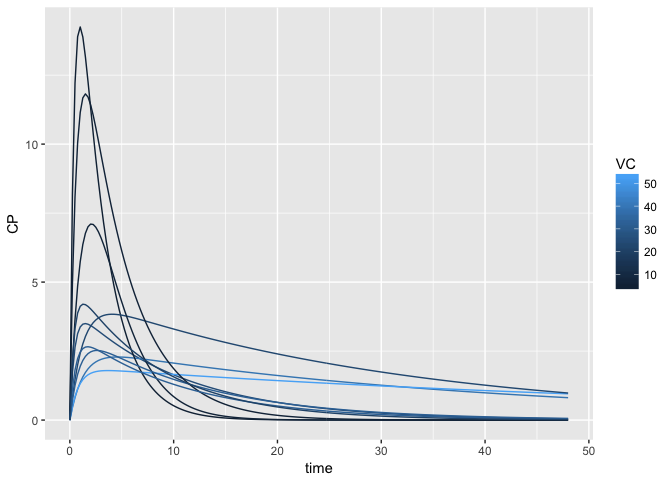
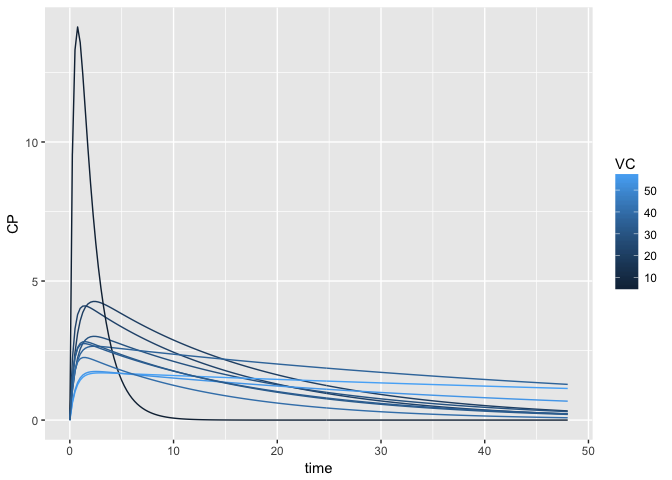
change sense_spaced to sense_range; documentation issues

diff --git a/README.md b/README.md
@@ -47,16 +47,16 @@ out
     . # A tibble: 1,930 x 8
     .       ID  time    CP    CL    VC   KA1 name         value
     .    <dbl> <dbl> <dbl> <dbl> <dbl> <dbl> <chr>        <dbl>
-    .  1  1.00 0      0     2.33  24.9  2.26 multivariate  1.00
-    .  2  1.00 0.250  1.71  2.33  24.9  2.26 multivariate  1.00
-    .  3  1.00 0.500  2.64  2.33  24.9  2.26 multivariate  1.00
-    .  4  1.00 0.750  3.13  2.33  24.9  2.26 multivariate  1.00
-    .  5  1.00 1.00   3.38  2.33  24.9  2.26 multivariate  1.00
-    .  6  1.00 1.25   3.48  2.33  24.9  2.26 multivariate  1.00
-    .  7  1.00 1.50   3.50  2.33  24.9  2.26 multivariate  1.00
-    .  8  1.00 1.75   3.47  2.33  24.9  2.26 multivariate  1.00
-    .  9  1.00 2.00   3.43  2.33  24.9  2.26 multivariate  1.00
-    . 10  1.00 2.25   3.37  2.33  24.9  2.26 multivariate  1.00
+    .  1    1. 0.     0.    1.17  20.5  1.42 multivariate    1.
+    .  2    1. 0.250  1.45  1.17  20.5  1.42 multivariate    1.
+    .  3    1. 0.500  2.44  1.17  20.5  1.42 multivariate    1.
+    .  4    1. 0.750  3.12  1.17  20.5  1.42 multivariate    1.
+    .  5    1. 1.00   3.57  1.17  20.5  1.42 multivariate    1.
+    .  6    1. 1.25   3.87  1.17  20.5  1.42 multivariate    1.
+    .  7    1. 1.50   4.06  1.17  20.5  1.42 multivariate    1.
+    .  8    1. 1.75   4.18  1.17  20.5  1.42 multivariate    1.
+    .  9    1. 2.00   4.24  1.17  20.5  1.42 multivariate    1.
+    . 10    1. 2.25   4.26  1.17  20.5  1.42 multivariate    1.
     . # ... with 1,920 more rows
 
 ``` r
@@ -79,16 +79,16 @@ out
     . # A tibble: 5,790 x 5
     .       ID  time    CP name  value
     .    <dbl> <dbl> <dbl> <chr> <dbl>
-    .  1  1.00 0      0    CL     1.90
-    .  2  1.00 0.250  1.09 CL     1.90
-    .  3  1.00 0.500  1.92 CL     1.90
-    .  4  1.00 0.750  2.54 CL     1.90
-    .  5  1.00 1.00   2.99 CL     1.90
-    .  6  1.00 1.25   3.32 CL     1.90
-    .  7  1.00 1.50   3.56 CL     1.90
-    .  8  1.00 1.75   3.72 CL     1.90
-    .  9  1.00 2.00   3.82 CL     1.90
-    . 10  1.00 2.25   3.88 CL     1.90
+    .  1    1. 0.     0.   CL     2.94
+    .  2    1. 0.250  1.09 CL     2.94
+    .  3    1. 0.500  1.89 CL     2.94
+    .  4    1. 0.750  2.48 CL     2.94
+    .  5    1. 1.00   2.90 CL     2.94
+    .  6    1. 1.25   3.20 CL     2.94
+    .  7    1. 1.50   3.39 CL     2.94
+    .  8    1. 1.75   3.51 CL     2.94
+    .  9    1. 2.00   3.58 CL     2.94
+    . 10    1. 2.25   3.59 CL     2.94
     . # ... with 5,780 more rows
 
 ``` r
@@ -111,16 +111,16 @@ mod %>%
     . # A tibble: 1,930 x 7
     .       ID  time    CP    CL    VC name         value
     .    <dbl> <dbl> <dbl> <dbl> <dbl> <chr>        <dbl>
-    .  1  1.00 0     0      1.74  35.1 multivariate  1.00
-    .  2  1.00 0.250 0.627  1.74  35.1 multivariate  1.00
-    .  3  1.00 0.500 1.11   1.74  35.1 multivariate  1.00
-    .  4  1.00 0.750 1.47   1.74  35.1 multivariate  1.00
-    .  5  1.00 1.00  1.75   1.74  35.1 multivariate  1.00
-    .  6  1.00 1.25  1.96   1.74  35.1 multivariate  1.00
-    .  7  1.00 1.50  2.12   1.74  35.1 multivariate  1.00
-    .  8  1.00 1.75  2.23   1.74  35.1 multivariate  1.00
-    .  9  1.00 2.00  2.31   1.74  35.1 multivariate  1.00
-    . 10  1.00 2.25  2.37   1.74  35.1 multivariate  1.00
+    .  1    1. 0.     0.    1.64  20.5 multivariate    1.
+    .  2    1. 0.250  1.07  1.64  20.5 multivariate    1.
+    .  3    1. 0.500  1.87  1.64  20.5 multivariate    1.
+    .  4    1. 0.750  2.48  1.64  20.5 multivariate    1.
+    .  5    1. 1.00   2.94  1.64  20.5 multivariate    1.
+    .  6    1. 1.25   3.27  1.64  20.5 multivariate    1.
+    .  7    1. 1.50   3.51  1.64  20.5 multivariate    1.
+    .  8    1. 1.75   3.68  1.64  20.5 multivariate    1.
+    .  9    1. 2.00   3.79  1.64  20.5 multivariate    1.
+    . 10    1. 2.25   3.86  1.64  20.5 multivariate    1.
     . # ... with 1,920 more rows
 
 ### `sens_seq`
@@ -134,41 +134,41 @@ mod %>% sens_seq(CL = seq(2,12,2), VC = seq(30,100,10))
     . # A tibble: 2,716 x 5
     .       ID  time    CP name  value
     .    <dbl> <dbl> <dbl> <chr> <dbl>
-    .  1  1.00 0      0    CL     2.00
-    .  2  1.00 0      0    CL     2.00
-    .  3  1.00 0.250  1.09 CL     2.00
-    .  4  1.00 0.500  1.91 CL     2.00
-    .  5  1.00 0.750  2.53 CL     2.00
-    .  6  1.00 1.00   2.98 CL     2.00
-    .  7  1.00 1.25   3.31 CL     2.00
-    .  8  1.00 1.50   3.54 CL     2.00
-    .  9  1.00 1.75   3.70 CL     2.00
-    . 10  1.00 2.00   3.80 CL     2.00
+    .  1    1. 0.     0.   CL       2.
+    .  2    1. 0.     0.   CL       2.
+    .  3    1. 0.250  1.09 CL       2.
+    .  4    1. 0.500  1.91 CL       2.
+    .  5    1. 0.750  2.53 CL       2.
+    .  6    1. 1.00   2.98 CL       2.
+    .  7    1. 1.25   3.31 CL       2.
+    .  8    1. 1.50   3.54 CL       2.
+    .  9    1. 1.75   3.70 CL       2.
+    . 10    1. 2.00   3.80 CL       2.
     . # ... with 2,706 more rows
 
-### `sens_spaced`
+### `sens_range`
 
 -   Create sets of parameters equally-spaced between two bounds
 
 ``` r
 mod %>%
   select(CL,VC) %>%
-  sens_spaced(.n = 5, .factor = 4)
+  sens_range(.n = 5, .factor = 4)
 ```
 
     . # A tibble: 1,930 x 5
     .       ID  time    CP name  value
     .    <dbl> <dbl> <dbl> <chr> <dbl>
-    .  1  1.00 0      0    CL    0.250
-    .  2  1.00 0.250  1.10 CL    0.250
-    .  3  1.00 0.500  1.96 CL    0.250
-    .  4  1.00 0.750  2.62 CL    0.250
-    .  5  1.00 1.00   3.14 CL    0.250
-    .  6  1.00 1.25   3.53 CL    0.250
-    .  7  1.00 1.50   3.84 CL    0.250
-    .  8  1.00 1.75   4.07 CL    0.250
-    .  9  1.00 2.00   4.25 CL    0.250
-    . 10  1.00 2.25   4.39 CL    0.250
+    .  1    1. 0.     0.   CL    0.250
+    .  2    1. 0.250  1.10 CL    0.250
+    .  3    1. 0.500  1.96 CL    0.250
+    .  4    1. 0.750  2.62 CL    0.250
+    .  5    1. 1.00   3.14 CL    0.250
+    .  6    1. 1.25   3.53 CL    0.250
+    .  7    1. 1.50   3.84 CL    0.250
+    .  8    1. 1.75   4.07 CL    0.250
+    .  9    1. 2.00   4.25 CL    0.250
+    . 10    1. 2.25   4.39 CL    0.250
     . # ... with 1,920 more rows
 
 or
@@ -176,7 +176,7 @@ or
 ``` r
 out <- 
   mod %>%
-  sens_spaced(CL = c(0.5, 1.5), VC = c(10,40), .n = 5)
+  sens_range(CL = c(0.5, 1.5), VC = c(10,40), .n = 5)
 
 ggplot(out, aes(time,CP, group = ID)) + geom_line() + facet_wrap(~name)
 ```
@@ -194,16 +194,16 @@ mod %>%  sens_grid(CL = seq(1,10,1), VC = seq(20,40,5))
     . # A tibble: 9,650 x 7
     .       ID  time    CP    CL    VC name         value
     .    <dbl> <dbl> <dbl> <dbl> <dbl> <chr>        <dbl>
-    .  1  1.00 0      0     1.00  20.0 multivariate  1.00
-    .  2  1.00 0.250  1.10  1.00  20.0 multivariate  1.00
-    .  3  1.00 0.500  1.94  1.00  20.0 multivariate  1.00
-    .  4  1.00 0.750  2.58  1.00  20.0 multivariate  1.00
-    .  5  1.00 1.00   3.07  1.00  20.0 multivariate  1.00
-    .  6  1.00 1.25   3.44  1.00  20.0 multivariate  1.00
-    .  7  1.00 1.50   3.71  1.00  20.0 multivariate  1.00
-    .  8  1.00 1.75   3.91  1.00  20.0 multivariate  1.00
-    .  9  1.00 2.00   4.05  1.00  20.0 multivariate  1.00
-    . 10  1.00 2.25   4.15  1.00  20.0 multivariate  1.00
+    .  1    1. 0.     0.      1.   20. multivariate    1.
+    .  2    1. 0.250  1.10    1.   20. multivariate    1.
+    .  3    1. 0.500  1.94    1.   20. multivariate    1.
+    .  4    1. 0.750  2.58    1.   20. multivariate    1.
+    .  5    1. 1.00   3.07    1.   20. multivariate    1.
+    .  6    1. 1.25   3.44    1.   20. multivariate    1.
+    .  7    1. 1.50   3.71    1.   20. multivariate    1.
+    .  8    1. 1.75   3.91    1.   20. multivariate    1.
+    .  9    1. 2.00   4.05    1.   20. multivariate    1.
+    . 10    1. 2.25   4.15    1.   20. multivariate    1.
     . # ... with 9,640 more rows
 
 ### `sens_covset`
@@ -231,16 +231,16 @@ out
     . # A tibble: 19,300 x 7
     .       ID  time    CP    CL    VC name         value
     .    <dbl> <dbl> <dbl> <dbl> <dbl> <chr>        <dbl>
-    .  1  1.00 0     0      2.51  67.1 multivariate  1.00
-    .  2  1.00 0.250 0.328  2.51  67.1 multivariate  1.00
-    .  3  1.00 0.500 0.581  2.51  67.1 multivariate  1.00
-    .  4  1.00 0.750 0.774  2.51  67.1 multivariate  1.00
-    .  5  1.00 1.00  0.922  2.51  67.1 multivariate  1.00
-    .  6  1.00 1.25  1.03   2.51  67.1 multivariate  1.00
-    .  7  1.00 1.50  1.12   2.51  67.1 multivariate  1.00
-    .  8  1.00 1.75  1.18   2.51  67.1 multivariate  1.00
-    .  9  1.00 2.00  1.23   2.51  67.1 multivariate  1.00
-    . 10  1.00 2.25  1.26   2.51  67.1 multivariate  1.00
+    .  1    1. 0.    0.     1.77  46.3 multivariate    1.
+    .  2    1. 0.250 0.475  1.77  46.3 multivariate    1.
+    .  3    1. 0.500 0.841  1.77  46.3 multivariate    1.
+    .  4    1. 0.750 1.12   1.77  46.3 multivariate    1.
+    .  5    1. 1.00  1.34   1.77  46.3 multivariate    1.
+    .  6    1. 1.25  1.50   1.77  46.3 multivariate    1.
+    .  7    1. 1.50  1.62   1.77  46.3 multivariate    1.
+    .  8    1. 1.75  1.71   1.77  46.3 multivariate    1.
+    .  9    1. 2.00  1.78   1.77  46.3 multivariate    1.
+    . 10    1. 2.25  1.82   1.77  46.3 multivariate    1.
     . # ... with 19,290 more rows
 
 ``` r
@@ -250,16 +250,16 @@ distinct(out,ID,CL,VC)
     . # A tibble: 100 x 3
     .       ID    CL    VC
     .    <dbl> <dbl> <dbl>
-    .  1  1.00  2.51  67.1
-    .  2  2.00  2.28  36.4
-    .  3  3.00  3.08  32.2
-    .  4  4.00  1.29  34.2
-    .  5  5.00  3.37  56.0
-    .  6  6.00  1.09  10.5
-    .  7  7.00  2.85  28.7
-    .  8  8.00  1.66  19.4
-    .  9  9.00  2.33  24.9
-    . 10 10.0   1.18  29.0
+    .  1    1.  1.77  46.3
+    .  2    2.  1.54  66.4
+    .  3    3.  3.18  69.1
+    .  4    4.  1.35  68.8
+    .  5    5.  3.03  81.1
+    .  6    6.  1.39  66.5
+    .  7    7.  1.41  19.9
+    .  8    8.  3.16 126. 
+    .  9    9.  1.94  21.9
+    . 10   10.  2.80  15.1
     . # ... with 90 more rows
 
 Estimation `stats::optim`
